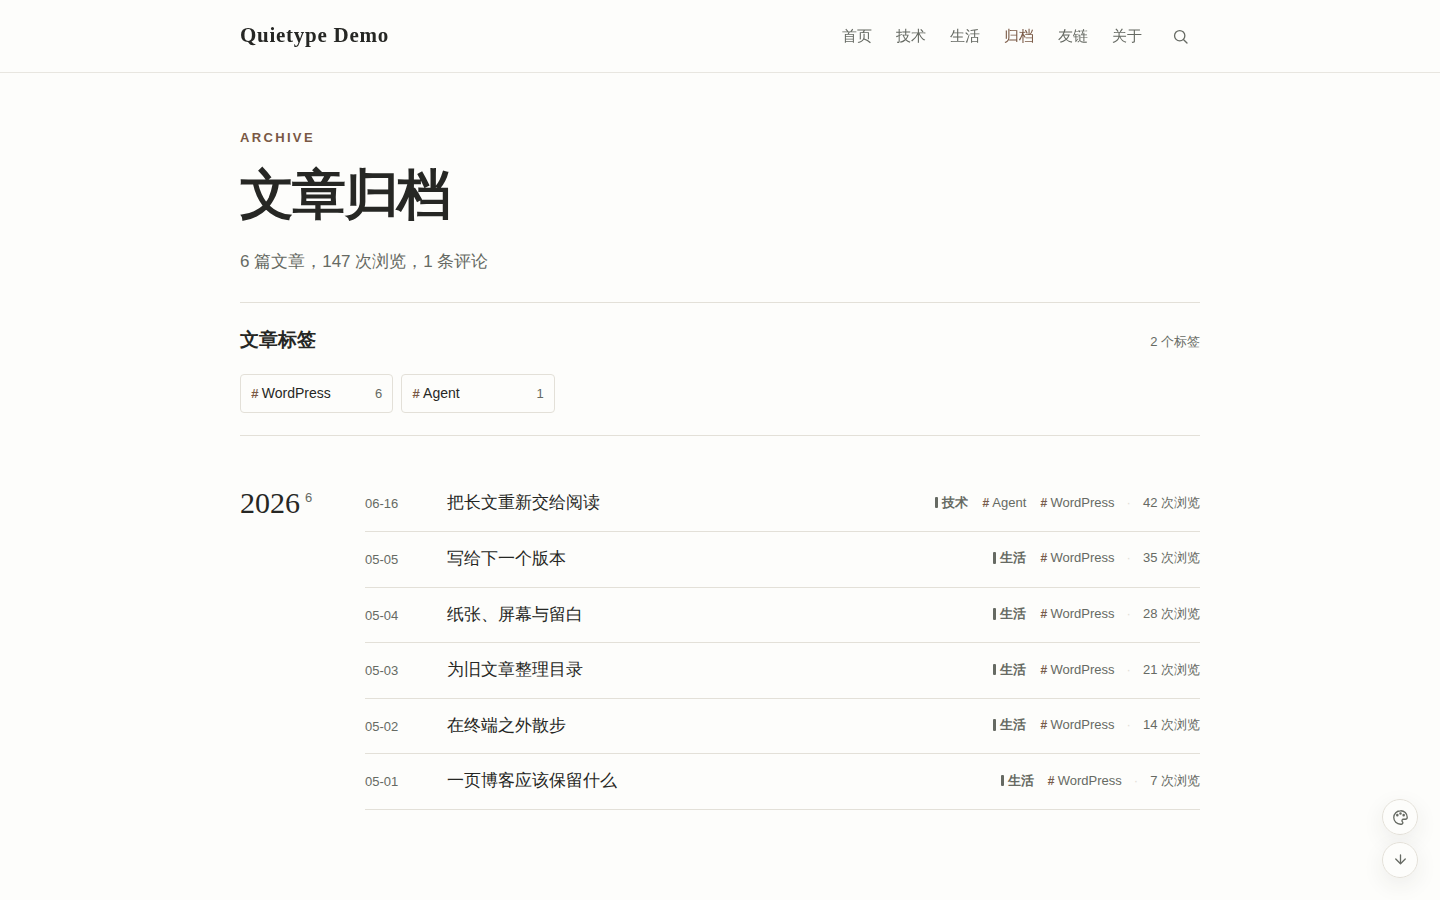
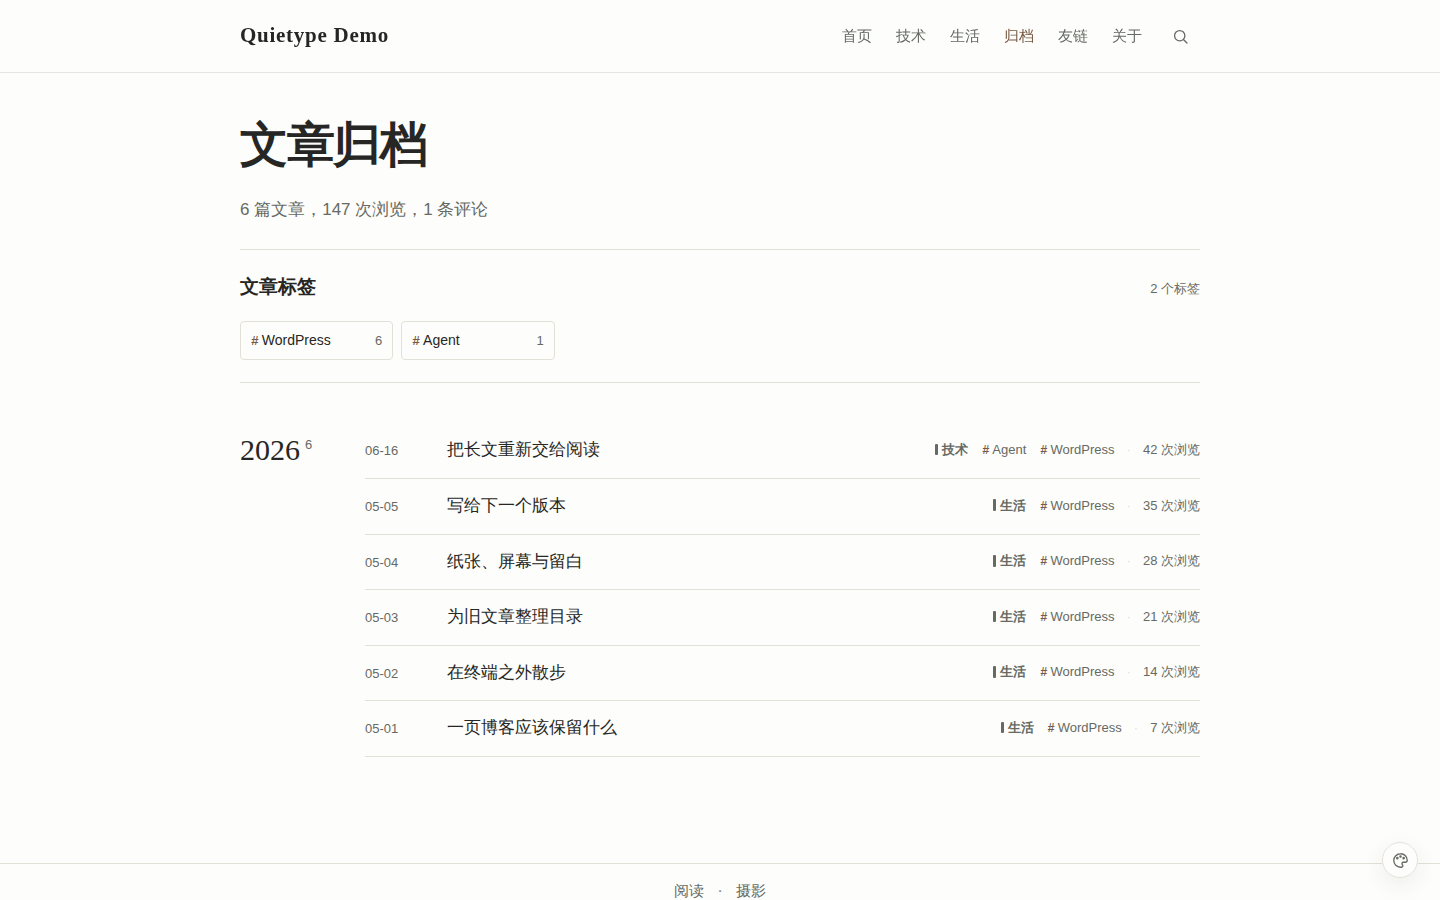
Let page titles speak without labels
- Remove generic PAGE, LINKS, ARCHIVE, CATALOGUE, TAG, and SEARCH eyebrows from ordinary page headers.

- Keep contextual BOOKS, PHOTOS, taxonomy paths, and the 404 status while rebalancing title spacing.

- Add desktop and mobile regression coverage and refresh the public preview images.

diff --git a/tests/e2e/smoke.spec.js b/tests/e2e/smoke.spec.js
@@ -35,6 +35,31 @@ test.describe('public pages', () => {
   }
 });
 
+test('page headers use eyebrows only when they add context', async ({ page }) => {
+  for (const path of [
+    '/about/',
+    '/archive/',
+    '/links/',
+    '/?s=Quietype',
+    '/category/technology/',
+    '/tag/agent/'
+  ]) {
+    await page.goto(path, { waitUntil: 'domcontentloaded' });
+    await expect(page.locator('.page-hero > .eyebrow')).toHaveCount(0);
+  }
+
+  for (const [path, label] of [
+    ['/books/', 'BOOKS'],
+    ['/photos/', 'PHOTOS']
+  ]) {
+    await page.goto(path, { waitUntil: 'domcontentloaded' });
+    await expect(page.locator('.eyebrow')).toHaveText(label);
+  }
+
+  await page.goto('/quietype-missing-page/', { waitUntil: 'domcontentloaded' });
+  await expect(page.locator('.not-found > .eyebrow')).toHaveText('404 · NOT FOUND');
+});
+
 test('core sitemap is canonical and includes the public book and photo archives', async ({ request }) => {
   const legacy = await request.get('/sitemap.xml', { maxRedirects: 0 });
   expect(legacy.status()).toBe(301);

diff --git a/style.css b/style.css
@@ -117,7 +117,7 @@ figure { margin: 0; }
 .eyebrow { color: var(--accent) !important; font-size: 13px !important; font-weight: 650; line-height: 1.5 !important; letter-spacing: .18em; text-transform: uppercase; }
 .page-entry.section-wrap, .archive-index.section-wrap, .archive-page.section-wrap, .links-page.section-wrap, .tags-page.section-wrap { padding-top: 42px; }
 .site-main .page-hero { max-width: 800px; margin-bottom: 24px; }
-.page-hero h1 { margin: 12px 0 20px; font: 650 clamp(36px, 4.25vw, 48px)/1.24 var(--sans); letter-spacing: -.03em; }
+.page-hero h1 { margin: 0 0 20px; font: 650 clamp(36px, 4.25vw, 48px)/1.24 var(--sans); letter-spacing: -.03em; }
 .page-hero > p:last-child, .page-description { color: var(--muted); font-size: 17px; }
 .page-hero > :last-child, .page-description p { margin-bottom: 0; }
 .page-entry > .content-width { max-width: 800px; margin-right: 0; margin-left: 0; }

diff --git a/template-archives.php b/template-archives.php
@@ -11,7 +11,6 @@ $archive_stats = quietype_archive_stats();
 ?>
 <section class="archive-page section-wrap">
 	<header class="page-hero">
-		<p class="eyebrow">ARCHIVE</p>
 		<h1><?php the_title(); ?></h1>
 		<p><?php echo esc_html( number_format_i18n( $archive_stats['posts'] ) ); ?> 篇文章，<?php echo esc_html( number_format_i18n( $archive_stats['views'] ) ); ?> 次浏览，<?php echo esc_html( number_format_i18n( $archive_stats['comments'] ) ); ?> 条评论</p>
 	</header>

diff --git a/page.php b/page.php
@@ -6,7 +6,6 @@ $article  = quietype_prepare_article( $rendered );
 ?>
 <article <?php post_class( 'page-entry section-wrap' ); ?>>
 	<header class="page-hero">
-		<p class="eyebrow">PAGE</p>
 		<h1><?php the_title(); ?></h1>
 	</header>
 	<div class="article-content content-width"><?php echo $article['content']; // phpcs:ignore WordPress.Security.EscapeOutput.OutputNotEscaped ?></div>

diff --git a/template-links.php b/template-links.php
@@ -10,7 +10,6 @@ $link_groups = quietype_link_groups();
 ?>
 <section class="links-page section-wrap">
 	<header class="page-hero">
-		<p class="eyebrow">LINKS</p>
 		<h1><?php the_title(); ?></h1>
 	</header>
 	<?php if ( trim( wp_strip_all_tags( get_the_content() ) ) ) : ?><div class="article-content content-width links-intro"><?php the_content(); ?></div><?php endif; ?>

diff --git a/archive.php b/archive.php
@@ -36,8 +36,6 @@ if ( $category instanceof WP_Term ) {
 					<?php endif; ?>
 				<?php endforeach; ?>
 			</nav>
-		<?php else : ?>
-			<p class="eyebrow"><?php echo esc_html( is_tag() ? 'TAG' : 'CATALOGUE' ); ?></p>
 		<?php endif; ?>
 		<h1><?php echo esc_html( $archive_title ); ?></h1>
 		<?php the_archive_description( '<div class="page-description">', '</div>' ); ?>

diff --git a/search.php b/search.php
@@ -1,7 +1,6 @@
 <?php get_header(); ?>
 <section class="archive-index section-wrap">
 	<header class="page-hero">
-		<p class="eyebrow">SEARCH</p>
 		<h1>“<?php echo esc_html( get_search_query() ); ?>”的搜索结果</h1>
 	</header>
 	<?php if ( have_posts() ) : ?>
